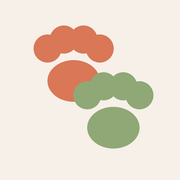
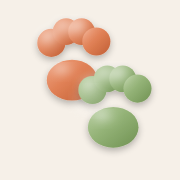
feat: Liquid Glass materiaallaag (iOS 26) + app-icoon in glas-stijl
Subtiele materiaallaag over de bestaande structuur — indeling/interactie
ongewijzigd, alleen het "materiaal" van bestaande oppervlakken:
- .card, .bottom-nav, .detail-sheet, .today-btn: translucente achtergrond
  (nieuwe --glass-bg/--glass-bg-strong tokens) + backdrop-filter: blur()
  saturate() (met -webkit--prefix voor Safari/iOS) + een dunne
  highlight-rand (--glass-border) + een inset top-highlight in de
  box-shadow, i.p.v. de vroegere vlakke --card-bg/--bg.
- --radius van 12px naar 20px voor een ronder, "continuous corner"-achtig
  gevoel — één centrale variabele, raakt alle kaarten automatisch.
- .status-banner: alleen de randen krijgen glas, de effen error/success-
  kleuren blijven intact (statusfeedback moet ondubbelzinnig blijven).
- .submit (primaire CTA-knoppen) blijven bewust de bestaande kleurrijke
  gradient — vergelijkbaar met hoe Apple's eigen getinte, prominente
  knoppen ook plat/vibrant blijven bovenop het glas, niet zelf glas worden.
- .header-bar had al backdrop-filter: blur() — nu uitgelijnd op dezelfde
  tokens/blur-waarde als de rest, geen structuurwijziging.

Gebaseerd op onderzoek (WebSearch) naar Apple's Liquid Glass-materiaal-
systeem (WWDC 2025): translucentie/refractie/adaptieve specular highlights,
en de gangbare CSS-benadering (backdrop-filter blur+saturate + semi-
transparante achtergrond + dunne highlight-rand + zachte drop-shadow).

App-icoon (icons/icon-512.png, icon-192.png, apple-touch-icon.png)
[…]

Changed region(s): [[0.1667, 0.0833, 0.8611, 0.8611]]

diff --git a/index.html b/index.html
@@ -58,7 +58,18 @@
     --accent-contrast: #ffffff;
     --border: #e6e2d8;
     --danger: #d9432c;
-    --radius: 12px;
+    --radius: 20px;
+    /* Liquid Glass material tokens (iOS 26) — a translucent, blurred
+       surface with a thin bright top-edge highlight, layered over the
+       existing --bg so content behind it stays legible through the glass.
+       Deliberately just tokens on top of the existing surfaces (.card,
+       .bottom-nav, .detail-sheet, .today-btn), not a structural redesign —
+       the layout/interaction patterns stay exactly as they are. */
+    --glass-bg: rgba(255, 255, 255, 0.55);
+    --glass-bg-strong: rgba(255, 255, 255, 0.72);
+    --glass-border: rgba(255, 255, 255, 0.65);
+    --glass-highlight: rgba(255, 255, 255, 0.8);
+    --glass-blur: 20px;
   }
 
   @media (prefers-color-scheme: dark) {
@@ -68,6 +79,10 @@
       --text: #f2f0e8;
       --text-muted: #a39d8f;
       --border: #3a352a;
+      --glass-bg: rgba(36, 32, 25, 0.55);
+      --glass-bg-strong: rgba(36, 32, 25, 0.74);
+      --glass-border: rgba(255, 255, 255, 0.09);
+      --glass-highlight: rgba(255, 255, 255, 0.12);
     }
   }
 
@@ -114,8 +129,8 @@
     justify-content: center;
     padding: 7px 50px 7px 16px;
     background: rgba(0, 0, 0, 0.34);
-    backdrop-filter: blur(10px);
-    -webkit-backdrop-filter: blur(10px);
+    backdrop-filter: blur(var(--glass-blur)) saturate(160%);
+    -webkit-backdrop-filter: blur(var(--glass-blur)) saturate(160%);
   }
 
   .pet-title-detail {
@@ -161,10 +176,12 @@
     bottom: 0;
     z-index: 20;
     display: flex;
-    background: var(--card-bg);
-    border-top: 1px solid var(--border);
+    background: var(--glass-bg-strong);
+    backdrop-filter: blur(var(--glass-blur)) saturate(160%);
+    -webkit-backdrop-filter: blur(var(--glass-blur)) saturate(160%);
+    border-top: 1px solid var(--glass-border);
     padding: 6px 4px calc(6px + env(safe-area-inset-bottom));
-    box-shadow: 0 -2px 12px rgba(0, 0, 0, 0.05);
+    box-shadow: inset 0 1px 0 var(--glass-highlight), 0 -2px 12px rgba(0, 0, 0, 0.05);
   }
 
   .bottom-nav button {
@@ -205,17 +222,19 @@
   section.tab-panel.active { display: block; }
 
   .card {
-    background: var(--card-bg);
+    background: var(--glass-bg);
+    backdrop-filter: blur(var(--glass-blur)) saturate(160%);
+    -webkit-backdrop-filter: blur(var(--glass-blur)) saturate(160%);
     border-radius: var(--radius);
-    border: 1px solid var(--border);
+    border: 1px solid var(--glass-border);
     padding: 18px;
     margin-bottom: 16px;
-    box-shadow: 0 1px 2px rgba(0, 0, 0, 0.04), 0 4px 16px rgba(0, 0, 0, 0.03);
+    box-shadow: inset 0 1px 0 var(--glass-highlight), 0 1px 2px rgba(0, 0, 0, 0.04), 0 4px 16px rgba(0, 0, 0, 0.03);
   }
 
   @media (prefers-color-scheme: dark) {
     .card {
-      box-shadow: 0 1px 2px rgba(0, 0, 0, 0.2), 0 4px 16px rgba(0, 0, 0, 0.15);
+      box-shadow: inset 0 1px 0 var(--glass-highlight), 0 1px 2px rgba(0, 0, 0, 0.2), 0 4px 16px rgba(0, 0, 0, 0.15);
     }
   }
 
@@ -495,8 +514,10 @@
     flex: 0 0 auto;
     padding: 0 14px;
     border-radius: 10px;
-    border: 1px solid var(--border);
-    background: var(--bg);
+    border: 1px solid var(--glass-border);
+    background: var(--glass-bg);
+    backdrop-filter: blur(var(--glass-blur)) saturate(160%);
+    -webkit-backdrop-filter: blur(var(--glass-blur)) saturate(160%);
     color: var(--accent);
     font-weight: 600;
     font-size: 0.85rem;
@@ -963,6 +984,12 @@
     border-radius: 10px;
     font-size: 0.9rem;
     display: none;
+    /* Error/success stay solid, semantic colors below — status feedback
+       needs to read unambiguously at a glance, so only the edges get the
+       glass treatment, not the fill. */
+    backdrop-filter: blur(8px);
+    -webkit-backdrop-filter: blur(8px);
+    box-shadow: inset 0 1px 0 rgba(255, 255, 255, 0.3);
   }
 
   .status-banner.show { display: block; }
@@ -997,13 +1024,18 @@
   }
 
   .detail-sheet {
-    background: var(--card-bg);
+    background: var(--glass-bg-strong);
+    backdrop-filter: blur(var(--glass-blur)) saturate(160%);
+    -webkit-backdrop-filter: blur(var(--glass-blur)) saturate(160%);
+    border: 1px solid var(--glass-border);
+    border-bottom: none;
     width: 100%;
     max-width: 640px;
     max-height: 85vh;
     overflow-y: auto;
     border-radius: 20px 20px 0 0;
     padding: 18px 16px calc(18px + env(safe-area-inset-bottom));
+    box-shadow: inset 0 1px 0 var(--glass-highlight);
   }
 
   .detail-header {
